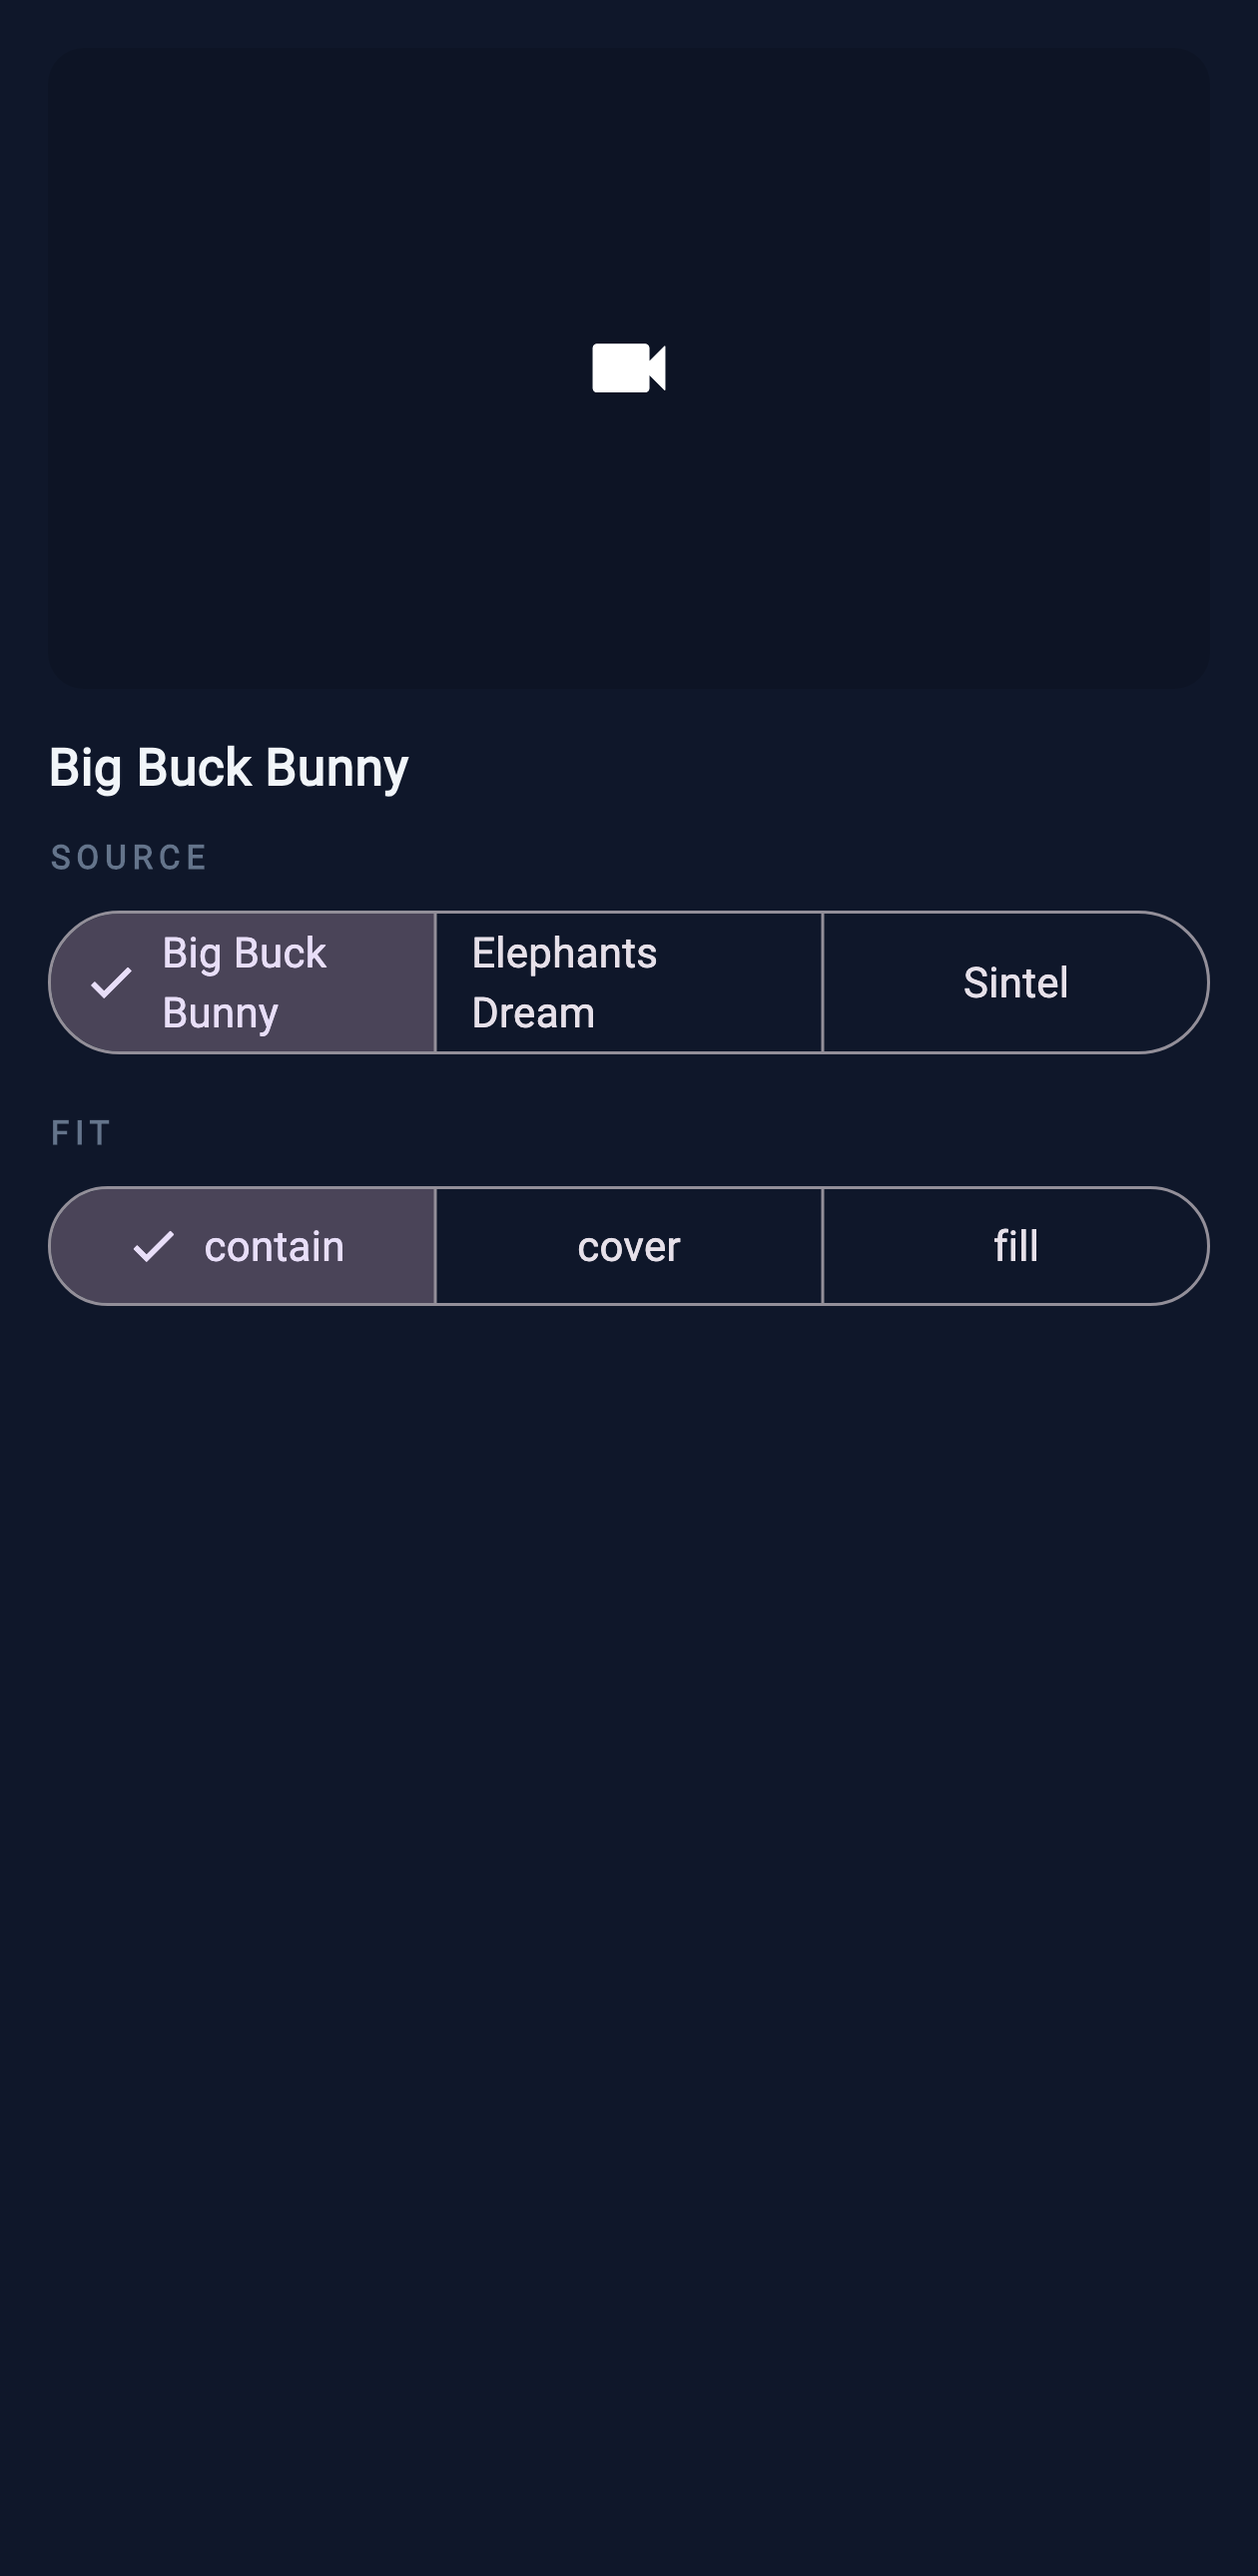
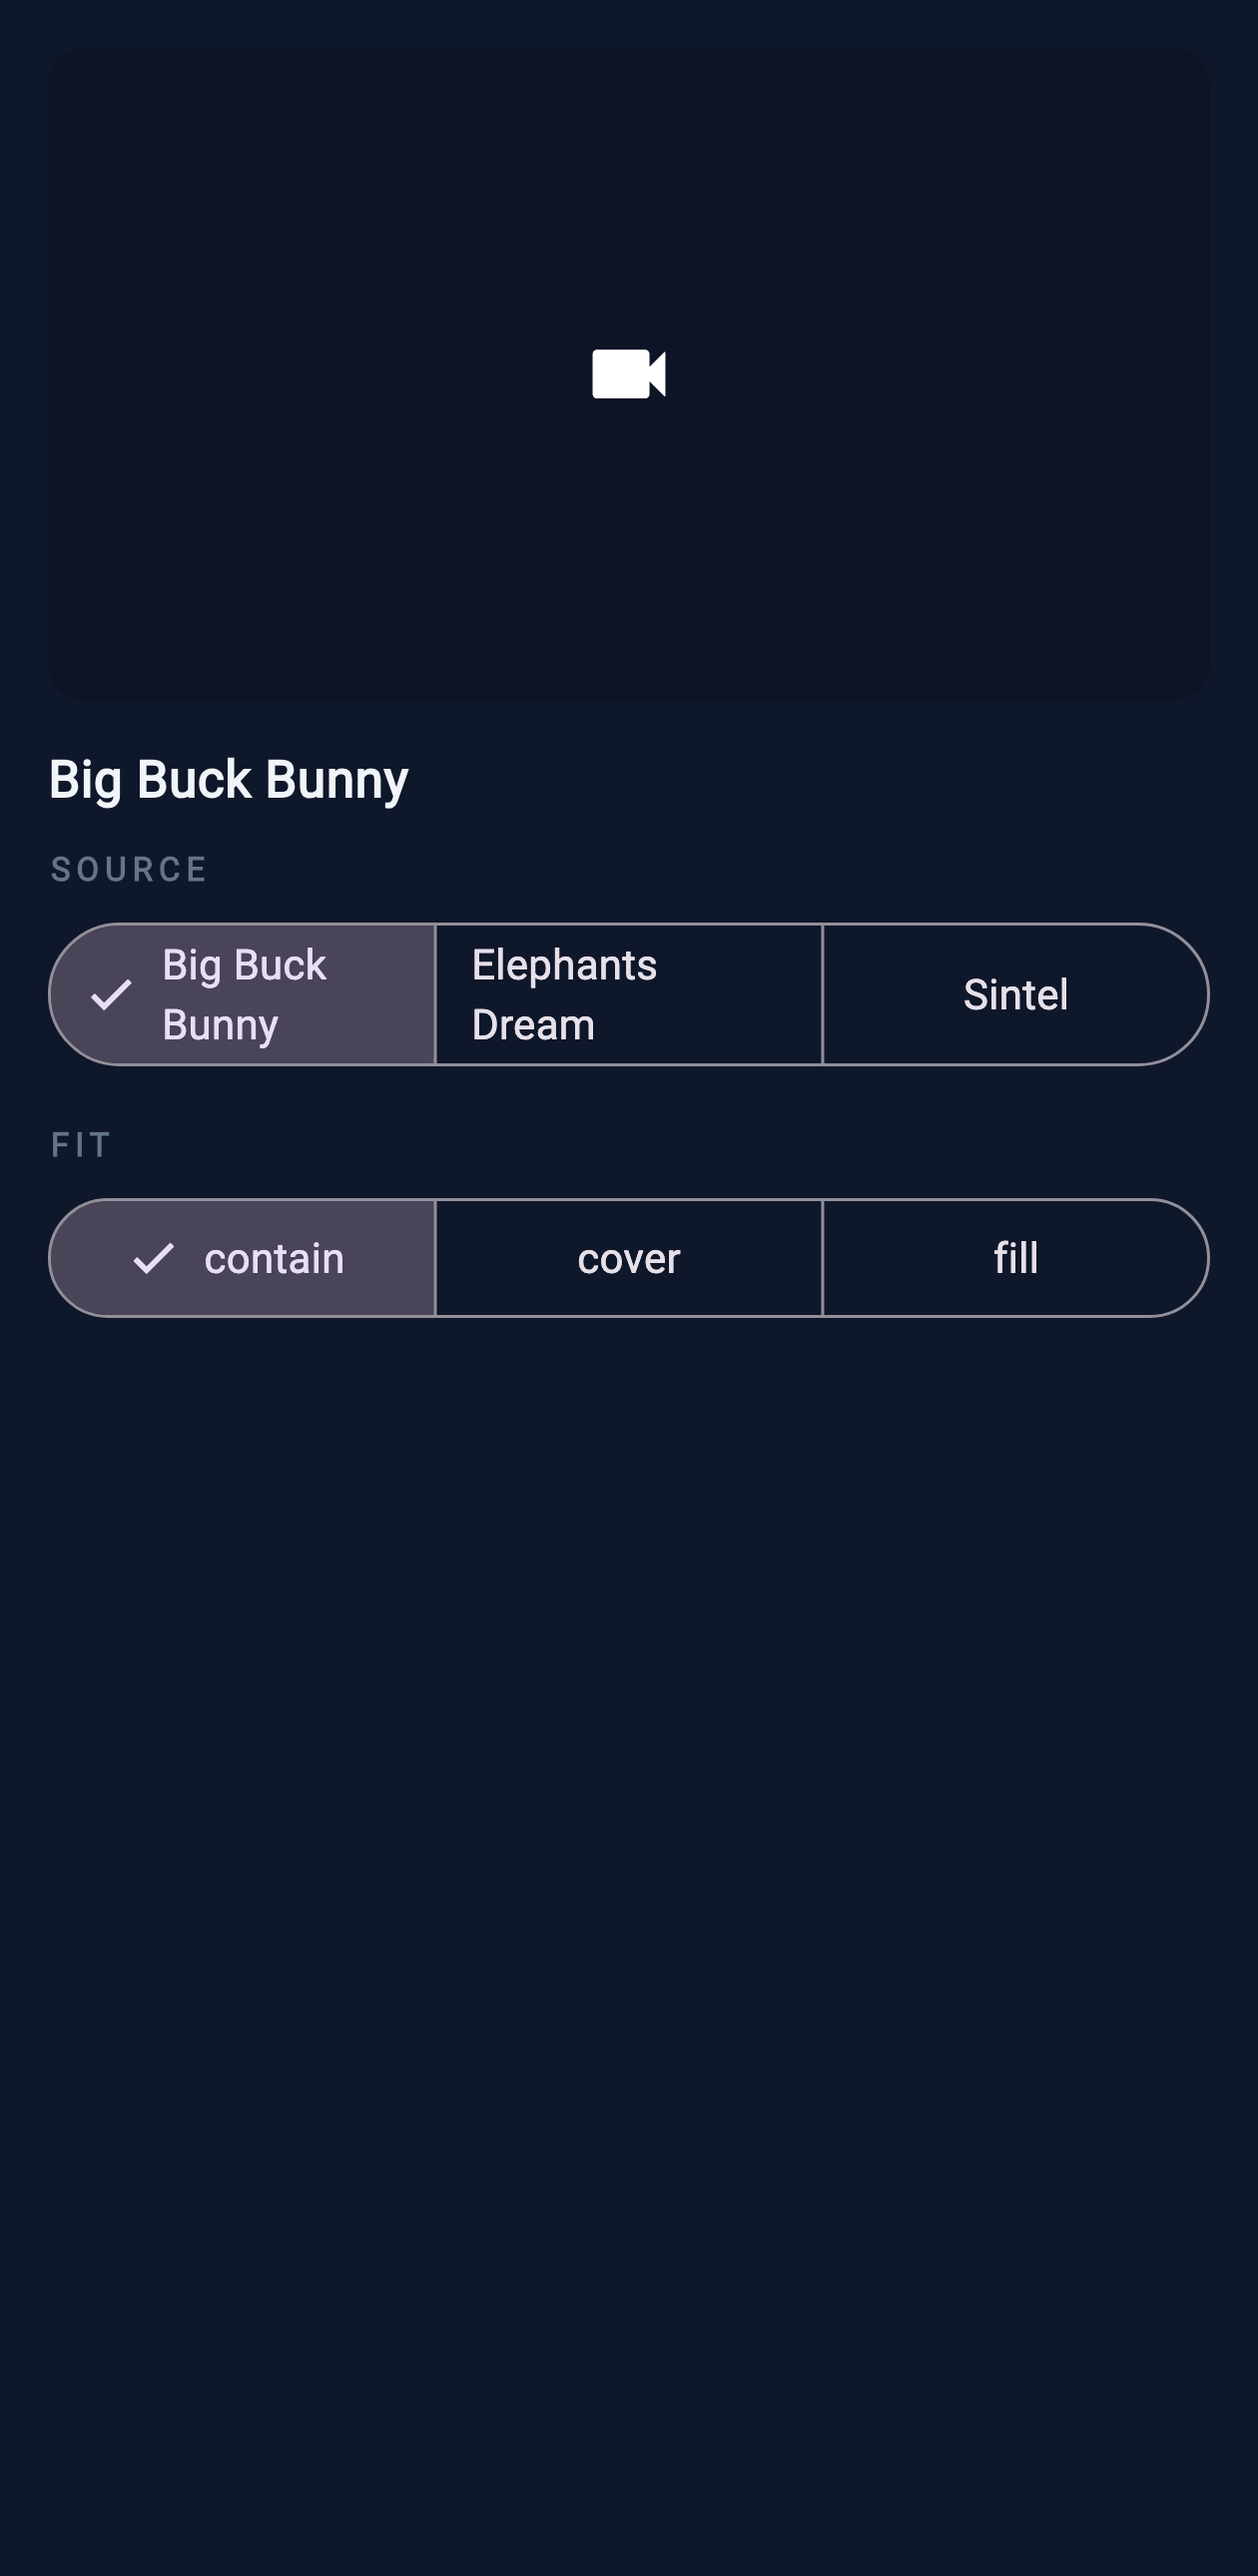
Adaptivity audit: scrollable/flex roots across all example widgets
Per the host layout contract (widgets embed at arbitrary heights):
- Scrollable roots: yolo-hello, calculator, weather, stocks, crypto,
  fitness-trainer (all three screens) — fixed columns became
  listView(shrinkWrap: false).
- Flex instead of hardcoded pixels: map (340px -> expanded fill),
  video-player (380x214 -> aspectRatio 16:9), 3d-viewer (centered
  fixed column -> expanded scene).
- Already adaptive, verified: pomodoro, audio-player, webview-showcase,
  m3-showcase, charts-showcase, animation-showcase, 3d-showcase,
  3d-glb-showcase, 3d-game-dodge, adaptive-dashboard.
All bumped widgets: version +0.0.1. Goldens regenerated (map,
video-player, yolo-hello changed visually; m3-date refreshed).

diff --git a/example/widgets/fitness-trainer/widget.js b/example/widgets/fitness-trainer/widget.js
@@ -217,7 +217,7 @@
 
   function homeScreen(t) {
     var mins = Math.round(totalSeconds() / 60);
-    return { type: 'safeArea', child: { type: 'column', crossAxisAlignment: 'stretch', children: [
+    return { type: 'safeArea', child: { type: 'listView', shrinkWrap: false, children: [
       header(t, 'Full body · ~' + mins + ' min', [
         chip(t, SVG.flame, state.stats.sessions + '', true)
       ]),
@@ -250,7 +250,7 @@
     for (var j = 0; j < state.step; j++) done += PLAN[j].dur;
     done += PLAN[state.step].dur - state.left;
     var total = totalSeconds();
-    return { type: 'safeArea', child: { type: 'column', crossAxisAlignment: 'stretch', children: [
+    return { type: 'safeArea', child: { type: 'listView', shrinkWrap: false, children: [
       header(t, isRest ? 'Rest' : step.name + ' · ' + step.detail, [
         chip(t, SVG.timer, fmt(state.left), state.left <= 5 && !isRest)
       ]),
@@ -286,7 +286,7 @@
   }
 
   function doneScreen(t) {
-    return { type: 'safeArea', child: { type: 'column', crossAxisAlignment: 'stretch', children: [
+    return { type: 'safeArea', child: { type: 'listView', shrinkWrap: false, children: [
       header(t, 'Workout complete', []),
       sceneBox(t, 250),
       { type: 'container', margin: [16, 10, 16, 0], padding: [18, 14, 18, 14], alignment: 'center',

diff --git a/example/widgets/map/widget.js b/example/widgets/map/widget.js
@@ -41,7 +41,6 @@
   function mapNode() {
     var node = {
       type: 'map',
-      height: 340,
       center: center,
       zoom: zoom,
       markers: allMarkers().map(function(m) {
@@ -162,13 +161,14 @@
             { type: 'sizedBox', width: 8 },
             zoomButton('+', 'zoom_in'),
           ] } },
-        // The map
-        { type: 'padding', padding: [12, 0, 12, 0], child: {
+        // The map — fills whatever height the host allots (expanded),
+        // no hardcoded pixel height.
+        { type: 'expanded', child: { type: 'padding', padding: [12, 0, 12, 0], child: {
           type: 'container',
           decoration: { borderRadius: 12,
             border: { color: t.border, width: 1 } },
           child: { type: 'clipRRect', borderRadius: 12, child: mapNode() },
-        } },
+        } } },
         { type: 'padding', padding: [16, 6, 16, 4], child: {
           type: 'text',
           data: 'Tap the map to drop a pin · tap a marker for details',

diff --git a/example/widgets/yolo-hello/widget.js b/example/widgets/yolo-hello/widget.js
@@ -26,8 +26,9 @@
 
     jsr.exportState({ tapCount: tapCount, scale: scale, bouncing: bouncing, hue: hue });
     jsr.render({
-      type: 'center',
-      child: {type: 'column', mainAxisSize: 'min', crossAxisAlignment: 'center', children: [
+      // Scrollable root (layout contract): hosts may allot ~150px height.
+      type: 'listView', shrinkWrap: false, padding: [16, 24, 16, 24],
+      children: [{type: 'column', mainAxisSize: 'min', crossAxisAlignment: 'center', children: [
         // Animated bouncing box
         {type: 'animatedContainer',
           duration: bouncing ? 50 : 300,
@@ -58,7 +59,7 @@
           {type: 'sizedBox', width: 8},
           {type: 'textButton', text: scale > 1 ? '⬇ Shrink' : '⬆ Grow', onTap: 'resize'},
         ]},
-      ]}
+      ]}]
     });
   }
 

diff --git a/example/widgets/3d-viewer/widget.js b/example/widgets/3d-viewer/widget.js
@@ -6,9 +6,9 @@
   function buildUI() {
     return {
       type: 'column',
-      mainAxisAlignment: 'center',
       crossAxisAlignment: 'center',
       children: [
+        { type: 'sizedBox', height: 16 },
         {
           type: 'text',
           data: '🧊 3D Model Viewer',
@@ -16,10 +16,12 @@
         },
         { type: 'sizedBox', height: 12 },
         {
-          type: 'scene3d',
-          id: 'main',
-          width: 320,
-          height: 320
+          // Expanded scene: adapts to whatever height the host allots.
+          type: 'expanded',
+          child: { type: 'center', child: {
+            type: 'scene3d',
+            id: 'main'
+          } }
         },
         { type: 'sizedBox', height: 12 },
         {

diff --git a/example/widgets/video-player/widget.js b/example/widgets/video-player/widget.js
@@ -32,13 +32,15 @@
           {
             type: 'clipRRect', borderRadius: 12,
             child: {
-              type: 'video',
-              src: VIDEOS[state.video].url,
-              controls: true,
-              autoPlay: false,
-              fit: state.fit,
-              width: 380,
-              height: 214
+              // Fluid width, fixed 16:9 ratio — no hardcoded pixel size.
+              type: 'aspectRatio', aspectRatio: 1.78,
+              child: {
+                type: 'video',
+                src: VIDEOS[state.video].url,
+                controls: true,
+                autoPlay: false,
+                fit: state.fit
+              }
             }
           },
           { type: 'sizedBox', height: 14 },

diff --git a/example/widgets/crypto/widget.js b/example/widgets/crypto/widget.js
@@ -69,8 +69,8 @@
       });
 
       jsr.render({
-        type:'column',
-        crossAxisAlignment:'stretch',
+        type:'listView',
+        shrinkWrap:false,
         children:[
           {type:'padding',padding:[12,12,12,8],child:{type:'column',
             crossAxisAlignment:'stretch',
@@ -120,7 +120,7 @@
       var arrow = chg >= 0 ? '▲' : '▼';
 
       jsr.render({
-        type:'column', crossAxisAlignment:'stretch',
+        type:'listView', shrinkWrap:false,
         children:[
           // Header
           {type:'padding', padding:[12,12,12,8], child:{type:'row',

diff --git a/example/widgets/weather/widget.js b/example/widgets/weather/widget.js
@@ -57,8 +57,8 @@
         duration: 400,
         curve: 'easeInOut',
         child: {
-        type: 'column',
-        crossAxisAlignment: 'stretch',
+        type: 'listView',
+        shrinkWrap: false,
         children: [
           // Header with animated temperature
           {type:'animatedContainer', duration:500, curve:'easeOut',

diff --git a/example/widgets/calculator/widget.js b/example/widgets/calculator/widget.js
@@ -64,7 +64,7 @@
 
     jsr.render({
       type:'padding',padding:[12,12,12,12],
-      child:{type:'column',crossAxisAlignment:'stretch',children:[display].concat(rows)},
+      child:{type:'listView',shrinkWrap:false,children:[display].concat(rows)},
     });
     jsr.exportState({
       expression: expr,

diff --git a/example/widgets/stocks/widget.js b/example/widgets/stocks/widget.js
@@ -60,7 +60,7 @@
       });
 
       jsr.render({
-        type: 'column', crossAxisAlignment: 'stretch',
+        type: 'listView', shrinkWrap: false,
         children: [
           {type:'padding', padding:[12,12,12,4], child:{
             type:'column', crossAxisAlignment:'stretch', children: rows,
